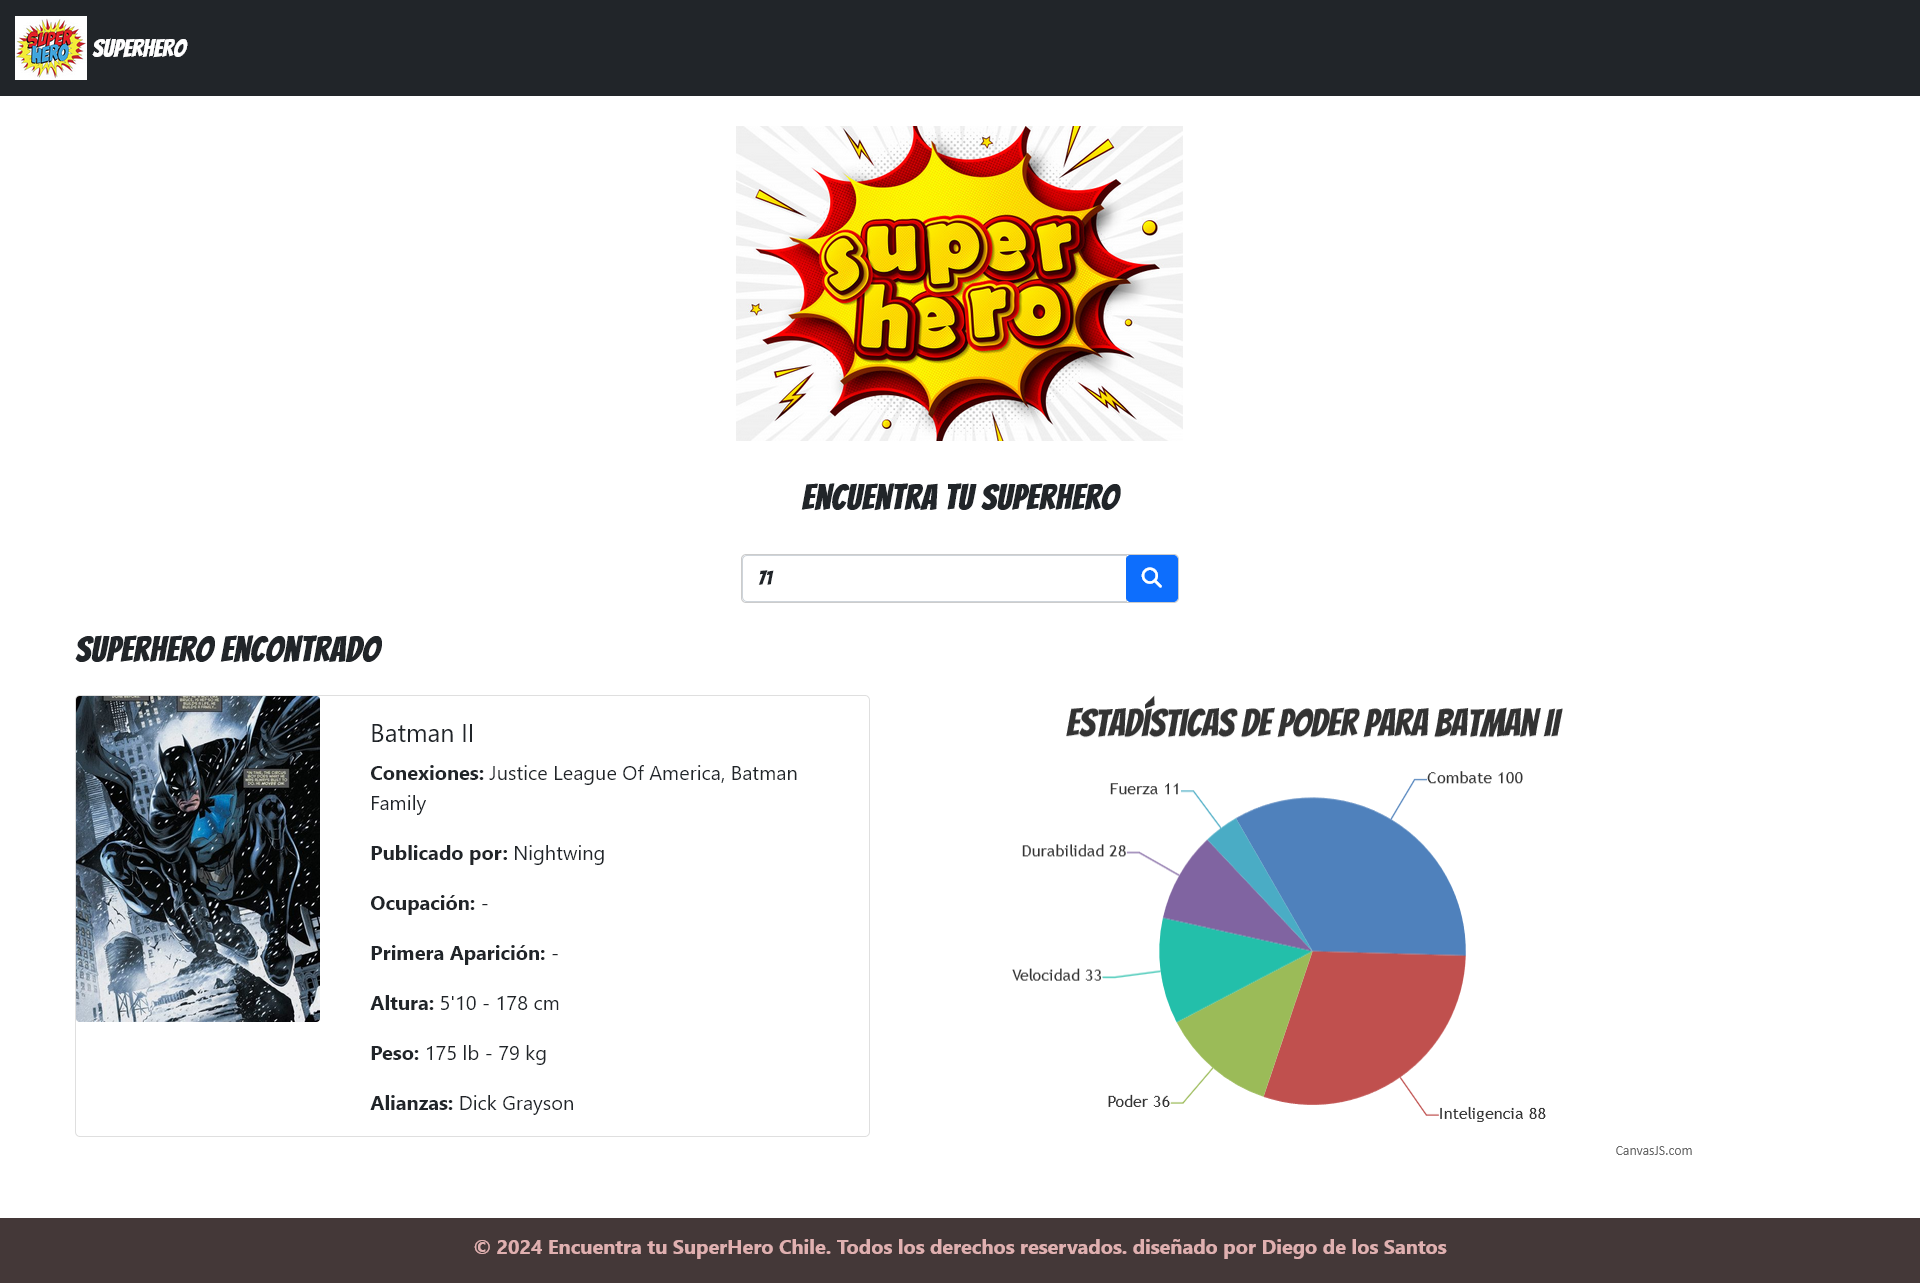
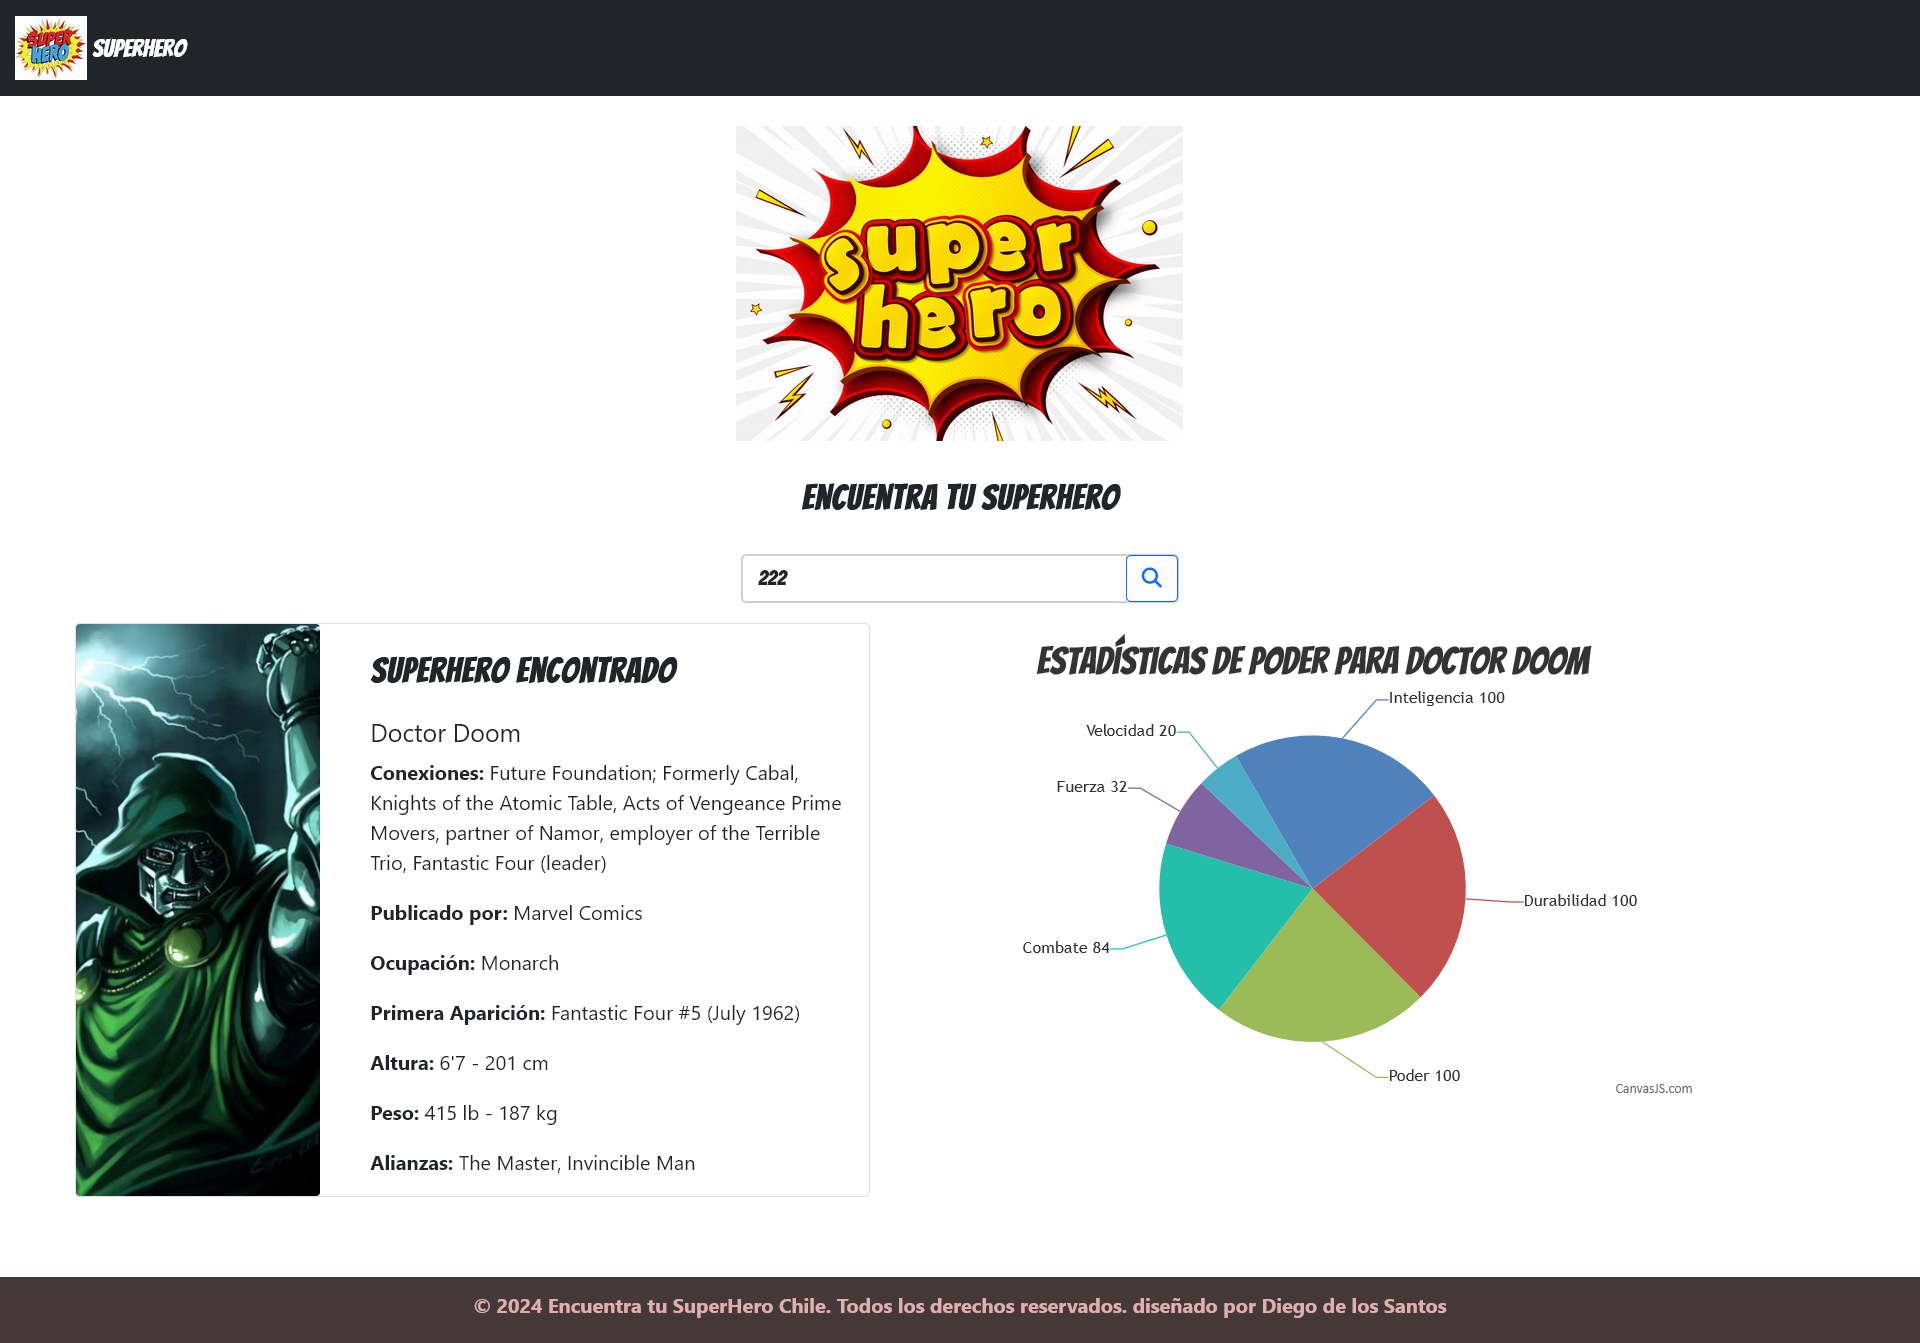
Correcciones menores index.html y script.js

diff --git a/assets/js/script.js b/assets/js/script.js
@@ -46,11 +46,11 @@ $(function () {
     scale: [0, 1],
     duration: 1000,
     easing: "easeOutExpo",
-  });
-
+  }); 
+  
   function renderHero(hero) {
     //funcion para mostrar informacion de superheroe, uso de cards de bootstrap y  mostrar grafico de canvasjs
-    let heroHtml = `<p id="title" class="fw-bold fs-3">SuperHero Encontrado</p>
+    let heroHtml = `
             <div class="col-md-6">
                 <div class="card mb-3">
                     <div class="row no-gutters">
@@ -61,6 +61,7 @@ $(function () {
                         </div>
                         <div class="col-md-8">
                             <div class="card-body">
+                                <p id="title" class="fw-bold fs-3">SuperHero Encontrado</p>
                                 <h5 class="card-title">${hero.name}</h5>
                                 <p class="card-text"><strong>Conexiones:</strong> ${
                                   hero.connections["group-affiliation"]
@@ -88,7 +89,7 @@ $(function () {
                     </div>
                 </div>
             </div>
-          <div class="col-md-6" id="chartContainer" style="height: 370px; width: 50%;"></div>
+          <div class="col-md-6 mt-2" id="chartContainer" style="height: 370px; width: 50%;"></div>
         `;
     $("#Hero-Info").html(heroHtml);
     renderHeroChart(hero);
@@ -122,7 +123,7 @@ $(function () {
       animationEnabled: true,
       title: {
         text: `Estadísticas de poder para ${hero.name}`,
-        fontFamily: "Bangers"
+        fontFamily: "Bangers",
       },
       data: [
         {

diff --git a/index.html b/index.html
@@ -51,20 +51,24 @@
     <form class="mb-3">
         <div class="container mt-4">
             <div class="input-group">
-                <input type="text" class="form-control" id="form"
+                <input type="text" class="form-control" id="form" maxlength="3"
                     placeholder="Ingresa el numero de tu superheroe a buscar">
+
                 <div class="input-group-append">
-                    <button class="btn btn-primary" type="button" id="btn">
+                    <button class="btn btn-outline-primary" type="button" id="btn">
                         <i class="fas fa-search"></i>
                     </button>
                 </div>
+
+
             </div>
         </div>
     </form>
 
+    <!-- main seccion con la informacion del superheroe -->
     <main class="container ms-5">
         <div id="Hero-Info" class="row">
-            <!-- Información del superhéroe seleccionado se mostrará aquí -->
+            <!-- Información y grafico del superhéroe seleccionado se mostrará aquí -->
         </div>
 
     </main>

diff --git a/assets/css/style.css b/assets/css/style.css
@@ -34,7 +34,7 @@ nav a {
 /* estilos form de ingreso */
 form {
     font-family: "Bangers", sans-serif;
-    
+
 }
 
 .input-group {
@@ -46,6 +46,12 @@ form {
     box-sizing: border-box;
 
 
+}
+
+main .card-img {
+    width: 100%;
+    height: 100%;
+    object-fit: cover;
 }
 
 main #title {
@@ -78,7 +84,7 @@ footer {
     text-align: center;
     color: rgb(224, 176, 176);
     font-weight: bold;
-    
+
 }
 
 footer a {
